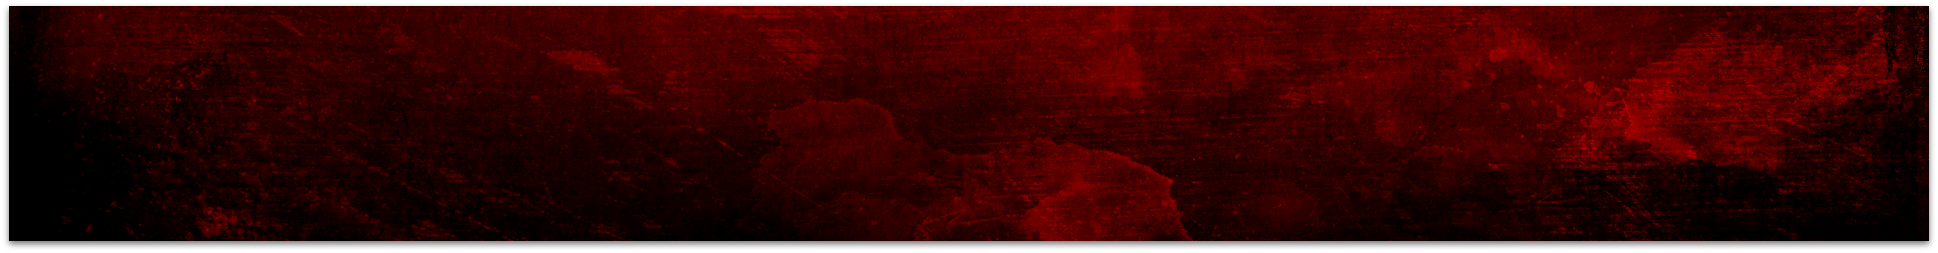
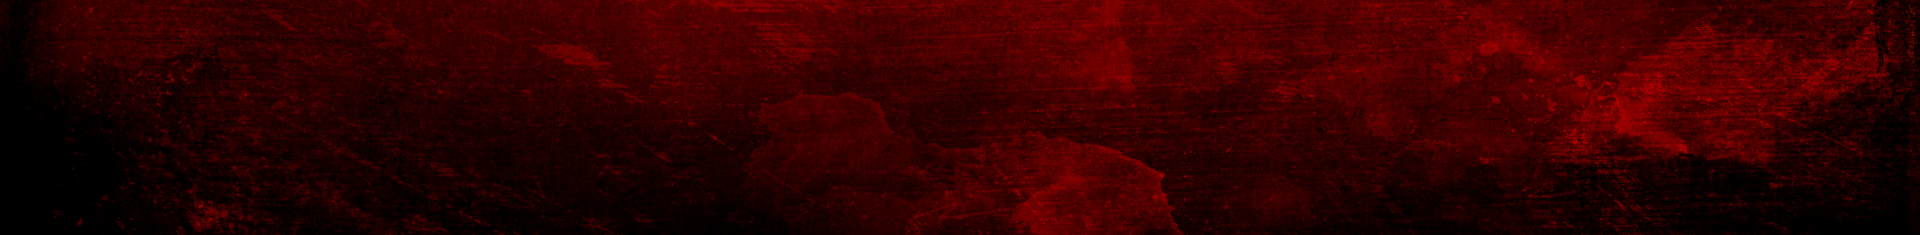
Match Camry's style

diff --git a/deathmaydie.html b/deathmaydie.html
@@ -12,6 +12,7 @@
     <div class="sidebar">
         <button value="Collection" class="sidebar-button" id="collectionButton" onclick="collapseResults();">Collection</button>
         <button class="sidebar-button" id="teamButton" onclick="collapseCollection();showInput();">Create Team</button>
+        <img src="images/dmd-logo.png" alt="Cthulhu: Death May Die" style="margin-left: 25px; position: absolute; top: 50%; left: 0%;">
     </div>
     <div class="main">
         <div class="collection" id="collectionDiv">
@@ -97,293 +98,3 @@
 </body>
 
 <script src="deathmaydie-script.js" type="text/javascript"></script>
-
-<!-- <script language="JavaScript">
-    let investigatorCount
-    let investigatorList = []
-    let investigatorResult = ""
-    let seasonOneInvestigators = [
-        "Ahmed",
-        "Fatima",
-        "Ian",
-        "The Kid",
-        "Rasputin",
-        "Borden",
-        "Morgan",
-        "Sister Beth",
-        "Elizabeth",
-        "Adam"
-
-    ]
-    let seasonTwoInvestigators = [
-        "Adilah (S2)",
-        "Luke (S2)",
-        "Mary (S2)",
-        "Mario (S2)",
-        "Alex (S2)",
-        "Sam (S2)",
-        "Tony (S2)",
-        "Hailia (S2)",
-        "Margarethe (S2)",
-        "Ariele (S2)"
-    ]
-    let unspeakableInvestigators = [
-        "Julia (UN)",
-        "Al (UN)",
-        "Richard (UN)",
-        "Maki (UN)",
-        "Tina (UN)",
-        "Fleur (UN)",
-        "Maxim (UN)",
-        "Roxie (UN)",
-        "Margie (UN)",
-        "Meryl (UN)",
-        "Pops (UN)",
-        "Walter (UN)",
-        "Vincent (UN)",
-        "Gonk (UN)",
-        "Josephine (UN)",
-        "Bert (UN)",
-        "Ernest (UN)",
-        "Olivia (UN)"
-    ]
-    let scarlettHayes = ["Scarlett Hayes (PR)"]
-
-    let episodeCount
-    let episodeList = []
-    let episodeResult = ""
-    let seasonOneEpisodes = [
-        "Season One Episode One Blasphemous Alchemy.",
-        "Season One Episode Two Tomes of Madness.",
-        "Season One. Episode Three. Danse Macabre.",
-        "Season One. Episode Four. Eldritch Idols.",
-        "Season One. Episode Five. Accursed Tide.",
-        "Season One. Episode Six. Unspeakable Hour."
-    ]
-    let seasonTwoEpisodes = [
-        "Season Two. Episode One - Strange Bedfellows",
-        "Season Two. Episode Two - Nameless Woods",
-        "Season Two. Episode Three - Sanctificetur Nomen",
-        "Season Two. Episode Four - Shootout at the H.P. Corral",
-        "Season Two. Episode Five - Monsters in Sin City",
-        "Season Two. Episode Six - Endgame"
-    ]
-    let unspeakableEpisodes = [
-        "Lost Episode One - Speak Fhtagn or Die!",
-        "Lost Episode Two - Bright Lights, Big Monsters",
-        "Lost Episode Three - Happy Birthday"
-    ]
-    let rlyehRisingEpisode = ["Epic Episode - R'lyeh Rising"]
-
-    let elderOneList = []
-    let elderOneResult = ""
-    let seasonOneElderOnes = [
-        "Cthulhu", 
-        "Hastur"
-    ]
-    let unspeakableElderOnes = [
-        "Dagon",
-        "Yog-Sothoth",
-    ]
-    let blackGoat = ["Black Goat of the Woods"]
-    let yogSothoth = ["Yog-Sothoth"]
-
-    // Create investigator pool.
-    function addInvestigators(x) {
-        var i 
-        for (i = 0; i < x.length; i++) {
-            investigatorList.push(x[i])
-        } 
-    }
-
-    // Create episode pool.
-    function addEpisodes(x) {
-        var i
-        for (i = 0; i < x.length; i++) {
-            episodeList.push(x[i])
-        }
-    }
-
-    // Create elder one pool.
-    function addElderOnes(x) {
-        var i
-        for (i = 0; i < x.length; i++) {
-            elderOneList.push(x[i])
-        }
-    }
-
-    function collapseResults() {
-        document.getElementById("resultDiv").style="display: none;"
-        document.getElementById("collectionDiv").style="display: auto;"
-    }
-    
-    function collapseCollection() {
-        document.getElementById("collectionDiv").style="display: none;"
-    }
-
-    function toggleCollapse() {
-        var elements = document.getElementsByClassName("collapsible");
-        var i;
-        var button = document.getElementById("collapseButton");
-
-        if (button.innerHTML == "Collapse") {
-            button.innerHTML = "Expand";
-        } else {
-            button.innerHTML = "Collapse";
-        }
-
-        for (i = 0; i < elements.length; i++) {
-            if (elements[i].style.display != "none") {
-                elements[i].style.display = "none";
-            } else {
-                elements[i].style.display = "block";
-            }
-        }
-    }
-    
-    function showInput() {
-        document.getElementById("resultDiv").style="display: block;"
-        investigatorList = []
-        episodeList = []
-        elderOneList = []
-        let totalCount = 0
-        investigatorResult = ""
-        episodeResult = ""
-        elderOneResult = ""
-        let investigatorDropdownSelection = document.getElementById("investigatorCountDropdown")
-        let investigatorCount = investigatorDropdownSelection.options[investigatorDropdownSelection.selectedIndex].text
-
-        // Add investigators to the investigator pool based on checked boxes.
-        if (document.getElementById("seasonOneInvestigators_checkbox").checked) {
-            addInvestigators(seasonOneInvestigators)
-        }
-        if (document.getElementById("seasonTwoInvestigators_checkbox").checked) {
-            addInvestigators(seasonTwoInvestigators)
-        }
-        if (document.getElementById("unspeakableInvestigators_checkbox").checked) {
-            addInvestigators(unspeakableInvestigators)
-        }
-        if (document.getElementById("scarlettHayes_checkbox").checked) {
-            addInvestigators(scarlettHayes)
-        }
-
-        // Add episodes to the episode pool based on checked boxes.
-        if (document.getElementById("seasonOneEpisodes_checkbox").checked) {
-            addEpisodes(seasonOneEpisodes)
-        }
-        if (document.getElementById("seasonTwoEpisodes_checkbox").checked) {
-            addEpisodes(seasonTwoEpisodes)
-        }
-        if (document.getElementById("unspeakableEpisodes_checkbox").checked) {
-            addEpisodes(unspeakableEpisodes)
-        }
-        if (document.getElementById("rlyehRisingEpisode_checkbox").checked) {
-            addEpisodes(rlyehRisingEpisode)
-        }
-
-        // Add elder ones to the elder one pool based on checked boxes.
-        if (document.getElementById("seasonOneElderOnes_checkbox").checked) {
-            addElderOnes(seasonOneElderOnes)
-        }
-        if (document.getElementById("unspeakableElderOnes_checkbox").checked) {
-            addElderOnes(unspeakableElderOnes)
-        }
-        if (document.getElementById("blackGoat_checkbox").checked) {
-            addElderOnes(blackGoat)
-        }
-        if (document.getElementById("yogSothoth_checkbox").checked) {
-            addElderOnes(yogSothoth)
-        }
-
-        totalCount = investigatorList.length // Count the number of investigators available before they get removed from the array so we can warn if the team will be larger than the available investigators.
-        
-        var i
-        for (i = 0; i < investigatorCount; i++) {
-            var rand = Math.floor(Math.random()*investigatorList.length)
-            var num = investigatorList[rand]
-            investigatorList.splice(rand,1) 
-            investigatorResult += num + "<br/>" 
-        }
-        if (totalCount < investigatorCount) {
-            investigatorResult = "Not enough investigators!"
-        }
-        document.getElementById("investigators").innerHTML = investigatorResult
-
-        var randEpisode = Math.floor(Math.random()*episodeList.length)
-        episodeResult = episodeList[randEpisode]
-        if (episodeList.length < 1) {
-            episodeResult = "No episodes selected!"
-        }
-        document.getElementById("episode").innerHTML = episodeResult
-
-        var randElderOne = Math.floor(Math.random()*elderOneList.length)
-        elderOneResult = elderOneList[randElderOne]
-        if (elderOneList < 1) {
-            elderOneResult = "No Elder Ones selected!"
-        }
-        if (episodeResult == "Epic Episode - R'lyeh Rising") {
-            elderOneResult = "Cthulhu (R'lyeh Rising)"
-        }
-        document.getElementById("elderOne").innerHTML = elderOneResult
-
-        // if (document.getElementsByClassName("collapsible").style.display != "none") {
-        //     toggleCollapse()
-        // }
-    }
-
-    function checkall_investigators(source, type) {
-        checkboxes = document.getElementsByClassName('investigator_checkbox');
-        for(var i=0, n=checkboxes.length; i<n; i++) {
-            checkboxes[i].checked = source.checked;
-        }
-    }
-
-    function checkall_episodes(source, type) {
-        checkboxes = document.getElementsByClassName('episode_checkbox');
-        for(var i=0, n=checkboxes.length; i<n; i++) {
-            checkboxes[i].checked = source.checked;
-        }
-    }
-
-    function checkall_elderOnes(source, type) {
-        checkboxes = document.getElementsByClassName('elderOne_checkbox');
-        for(var i=0, n=checkboxes.length; i<n; i++) {
-            checkboxes[i].checked = source.checked;
-        }
-        uncheck_yogSothoth()
-    }
-
-    function checkall_seasonOne(source) {
-        checkboxes = document.getElementsByClassName('seasonOne_checkbox');
-        for(var i=0, n=checkboxes.length; i<n; i++) {
-            checkboxes[i].checked = source.checked;
-        }
-    }
-
-    function checkall_seasonTwo(source) {
-        checkboxes = document.getElementsByClassName('seasonTwo_checkbox');
-        for(var i=0, n=checkboxes.length; i<n; i++) {
-            checkboxes[i].checked = source.checked;
-        }
-    }
-
-    function checkall_unspeakable(source) {
-        checkboxes = document.getElementsByClassName('unspeakable_checkbox');
-        for(var i=0, n=checkboxes.length; i<n; i++) {
-            checkboxes[i].checked = source.checked;
-        }
-    }
-
-    // If Unspeakable Box Elder Ones is checked, Yog-Sothoth should be unchecked
-    function uncheck_yogSothoth() {
-        if (document.getElementById("unspeakableElderOnes_checkbox").checked) {
-            document.getElementById("yogSothoth_checkbox").checked = false
-            document.getElementById("yogSothoth_checkbox").disabled = true
-        }
-        else {
-            document.getElementById("yogSothoth_checkbox").disabled = false
-        }
-    }
-
-  </script> -->
-</html>

diff --git a/main.css b/main.css
@@ -12,8 +12,8 @@
 }
 body {
     margin: 0;
-    background-image: url("images/background.png");
-    background-size: cover;
+    background-image: url("images/background-light.png");
+    background-size: auto;
     color: white;
 }
 /* h1 {
@@ -34,33 +34,33 @@ body {
 }
 .sidebar {
     height: 100%;
-    width: 160px;
+    width: 375px;
     position: fixed;
     z-index: 1;
     top: 63;
     left: 0;
+    background-color: rgb(0, 0, 0, 0.7);
 }
 .sidebar-button {
     background-image: url("images/unselected-button.png");
-    background-size: cover;
+    background-size: 375px;
     background-repeat: no-repeat;
     border: none;
     background-color: transparent;
-    padding: 0;
-    width: 160px;
-    height: 65px;
+    width: 375px;
+    height: 157px;
     color: white;
     text-align: center;
     line-height: 65px;
-    font-family: American Typewriter, serif;
-    font-size: 18px;
+    font-family: American Typewriter;
+    font-size: 40px;
 }
 .sidebar-button:focus {
     background-image: url("images/selected-button.png");
     color: black;
 }
 .main {
-    margin-left: 160px;
+    margin-left: 375px;
     text-align: center;
 }
 .banner-image {
@@ -72,7 +72,7 @@ body {
     margin: auto;
 }
 .banner-text {
-    font-size: 60pt;
+    font-size: 80pt;
     margin: auto;
     font-family: Sunset Boulevard;
 }
@@ -98,8 +98,29 @@ body {
     padding-left: 25%;
     padding-right: 25%;
 }
-table, th, td.data {
+table {
+    /* background-image: url('images/table-background.png'); */
+    background-color: rgb(161, 58, 58, 0.7);
+    margin: auto;
+    margin-top: 20px;
+    padding: 6px;
+    font-size: 16pt;
+    font-family: American Typewriter;
+}
+th {
+    /* background-image: url('images/th-background.png'); */
+    background-color: rgb(161, 58, 58);
+    padding: 5px;
+}
+td {
+    background-color: white;
+    color: black;
+    text-align: left;
+    padding-top: 5px;
+    padding-bottom: 5px;
+}
+/* table, th, td.data {
     border: 1px solid black;
     margin: auto;
     text-align: center;
-}
+} */
